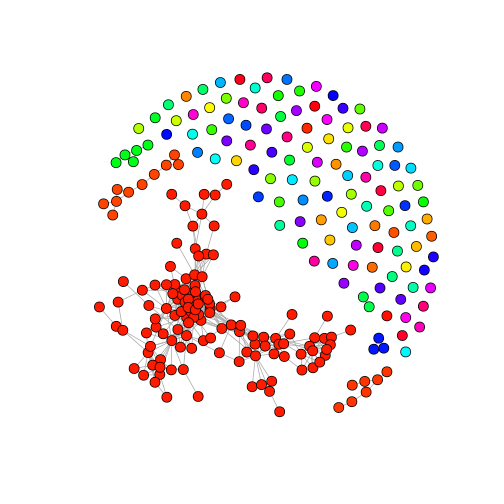
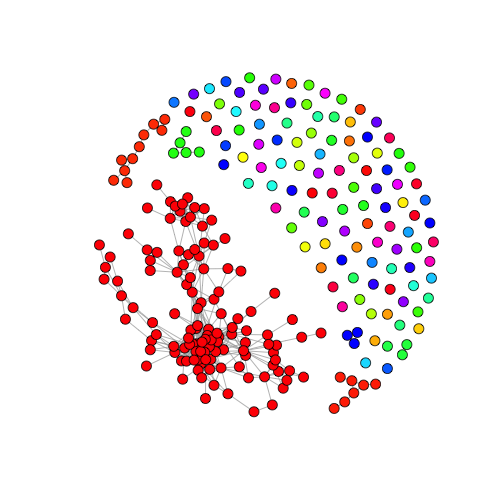
update genetic networks2

Changed region(s): [[0.1786, 0.119, 0.8929, 0.8333], [0.5357, 0.5655, 0.5655, 0.5952], [0.2381, 0.4464, 0.2679, 0.4762]]

diff --git a/_posts/2017-06-01-0-genetic-networks-2.md b/_posts/2017-06-01-0-genetic-networks-2.md
@@ -106,6 +106,26 @@ Now plot this example to see the connections based on the 2000 mile distance cut
 
 ```r
 library(igraph) # load package
+```
+
+```
+## 
+## Attaching package: 'igraph'
+```
+
+```
+## The following objects are masked from 'package:stats':
+## 
+##     decompose, spectrum
+```
+
+```
+## The following object is masked from 'package:base':
+## 
+##     union
+```
+
+```r
 # make sure to use the 2000 mile distance cutoff 
 cities_graph2 <- graph.adjacency(cities_mat, mode = "undirected")
 plot.igraph(cities_graph2)
@@ -183,12 +203,12 @@ genes_cor <- cor(t(GxE_counts)) # calculate the correlation between all gene pai
 
 **Exercise 5:**
 
-**a** Create an adjacency matrix called `genes_adj` for the genes use a cutoff of abs(correlation) > 0.85.  Remember to set the diagonal of the adjacency matrix to 0.  See above code for cities.
+**a** 
+Create an adjacency matrix called `genes_adj85` for the genes use a cutoff of abs(correlation) > 0.85.  Remember to set the diagonal of the adjacency matrix to 0.  Create a second adjacency matrix `genes_adj95` using a cutoff of abs(correlation) > 0.95. See above code for cities.
 
 
 
 **b**
-
 Now we can do some calculations. If our cutoff is 0.85, how many edges do we have in our 255 node network? What if we increase our cutoff to 0.95? *hint: sum( )*
 
 **Exercise 6:**
@@ -196,9 +216,6 @@ Use the following code to plot our networks using different thresholds for conne
 
 
 ```r
-genes_adj95 <- abs(genes_cor) > 0.95
-diag(genes_adj95) <- 0 
-
 gene_graph95 <- graph.adjacency(genes_adj95, mode = "undirected") #convert adjacency to graph
 comps <- clusters(gene_graph95)$membership                        #define gene cluster membership
 colbar <- rainbow(max(comps)+1)                                   #define colors
@@ -210,8 +227,6 @@ plot(gene_graph95, layout = layout.fruchterman.reingold, vertex.size = 6, vertex
 
 ```r
 #this one will take a little while to render
-genes_adj85 <- abs(genes_cor) > 0.85
-diag(genes_adj85) <- 0 
 gene_graph85 <- graph.adjacency(genes_adj85, mode = "undirected")
 comps <- clusters(gene_graph85)$membership
 colbar <- rainbow(max(comps)+1)
